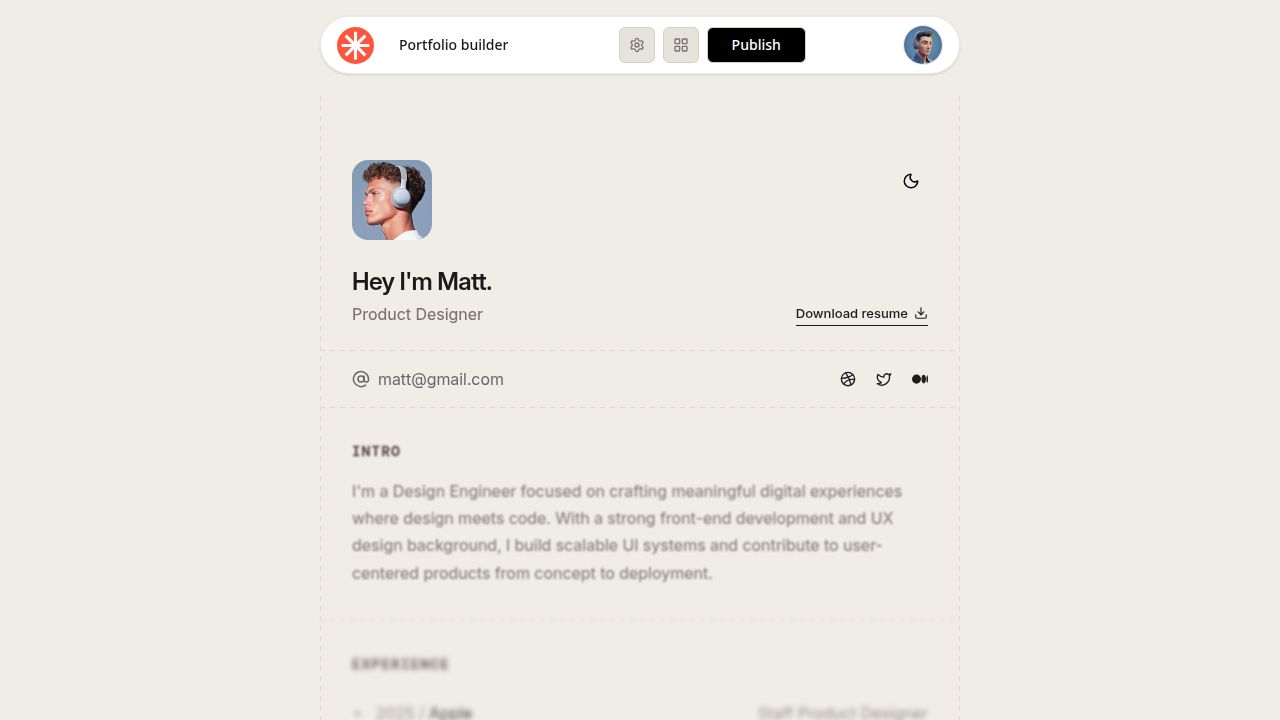
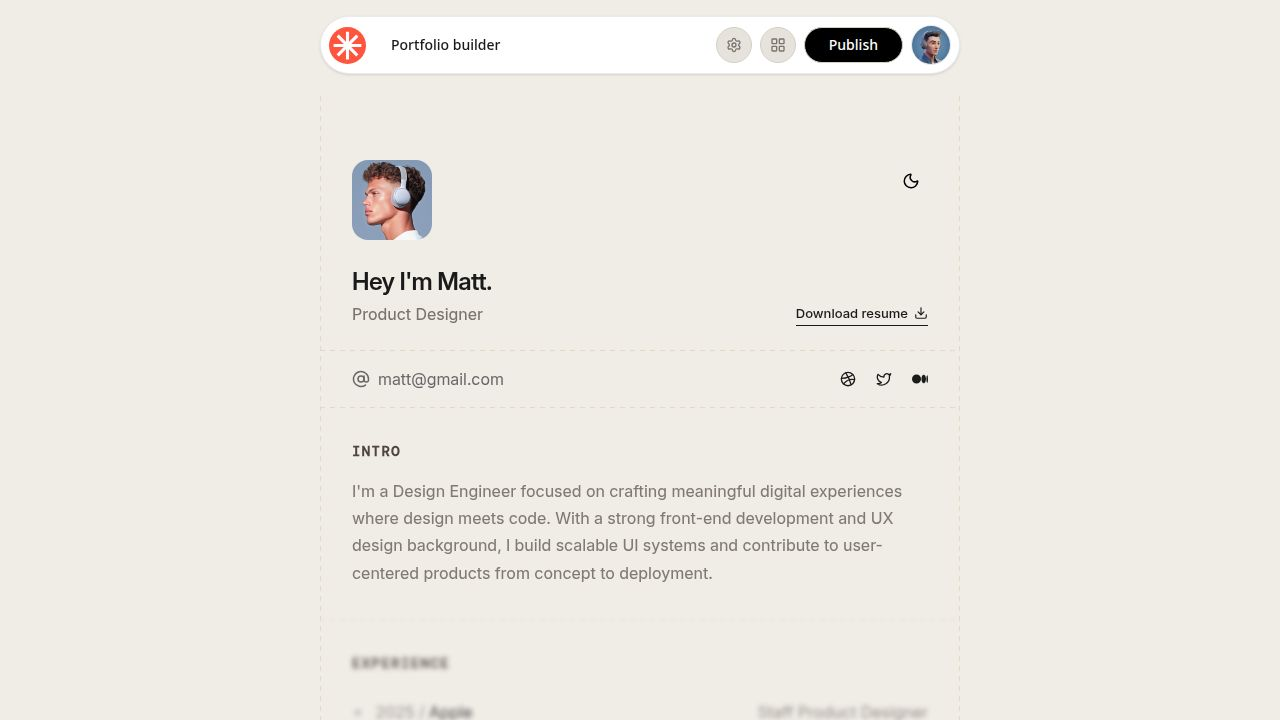
Adjust navbar spacing and add a dropdown for portfolio builder
Update navbar padding to 8px on all sides and convert "Portfolio builder" to a fully rounded dropdown menu with "Portfolio Builder" and "Other AI tools" as options.

Replit-Commit-Author: Agent
Replit-Commit-Session-Id: 4b1e77df-8c8c-4580-a224-1e61cad44afd
Replit-Commit-Checkpoint-Type: full_checkpoint
Replit-Commit-Event-Id: 915b07b8-e47c-4ec2-9b38-ea99f7588ff6
Replit-Commit-Screenshot-Url: https://storage.googleapis.com/screenshot-production-us-central1/15f3bfa8-7fa4-44c8-b02a-8816ce00b8a1/4b1e77df-8c8c-4580-a224-1e61cad44afd/0xd7Kfc
Replit-Helium-Checkpoint-Created: true

diff --git a/client/src/components/navbar.tsx b/client/src/components/navbar.tsx
@@ -1,5 +1,11 @@
 import { Button } from "@/components/ui/button";
 import { Avatar, AvatarImage, AvatarFallback } from "@/components/ui/avatar";
+import {
+  DropdownMenu,
+  DropdownMenuContent,
+  DropdownMenuItem,
+  DropdownMenuTrigger,
+} from "@/components/ui/dropdown-menu";
 import { LayoutGrid, Settings } from "lucide-react";
 import profileImg from "@/assets/images/profile.png";
 
@@ -7,19 +13,27 @@ export default function Navbar() {
   return (
     <div className="fixed top-0 left-0 right-0 z-50 flex justify-center pointer-events-none pt-4 px-4">
       <nav className="bg-white dark:bg-[#2A2520] border border-black/8 dark:border-white/10 rounded-full shadow-sm pointer-events-auto max-w-[640px] w-full">
-        <div className="px-3 md:px-4 py-2 flex items-center justify-between gap-8">
+        <div className="px-2 md:px-2 py-2 flex items-center justify-between gap-8">
           {/* Logo */}
           <div className="flex items-center gap-3">
             <svg width="37" height="37" viewBox="0 0 37 37" fill="none" xmlns="http://www.w3.org/2000/svg">
               <rect width="37" height="37" rx="18.5" fill="#FF553E"/>
               <path d="M20.0417 4.625H16.9583V14.7781L9.77902 7.59877L7.59877 9.77902L14.7781 16.9583H4.625V20.0417H14.7781L7.59877 27.221L9.77902 29.4012L16.9583 22.2219V32.375H20.0417V22.2219L27.221 29.4012L29.4012 27.221L22.2219 20.0417H32.375V16.9583H22.2219L29.4012 9.77902L27.221 7.59877L20.0417 14.7781V4.625Z" fill="white"/>
             </svg>
-            <Button 
-              variant="ghost" 
-              className="text-[#1A1A1A] dark:text-[#F0EDE7] font-medium px-3 text-sm"
-            >
-              Portfolio builder
-            </Button>
+            <DropdownMenu>
+              <DropdownMenuTrigger asChild>
+                <Button 
+                  variant="ghost" 
+                  className="text-[#1A1A1A] dark:text-[#F0EDE7] font-medium px-3 text-sm rounded-full"
+                >
+                  Portfolio builder
+                </Button>
+              </DropdownMenuTrigger>
+              <DropdownMenuContent align="start" className="w-48">
+                <DropdownMenuItem>Portfolio Builder</DropdownMenuItem>
+                <DropdownMenuItem>Other AI tools</DropdownMenuItem>
+              </DropdownMenuContent>
+            </DropdownMenu>
           </div>
 
           {/* Right Actions */}
